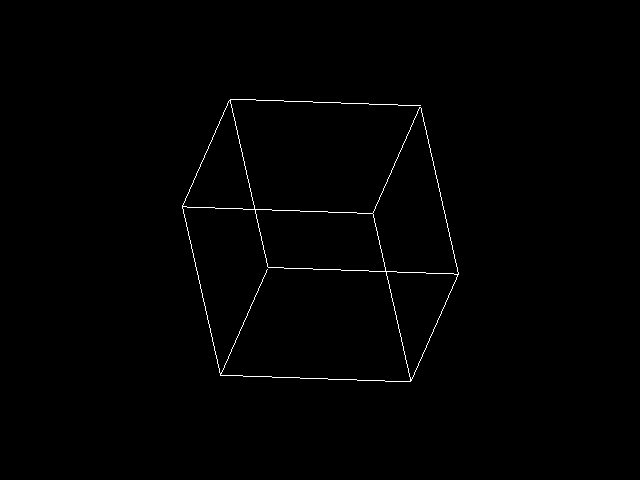
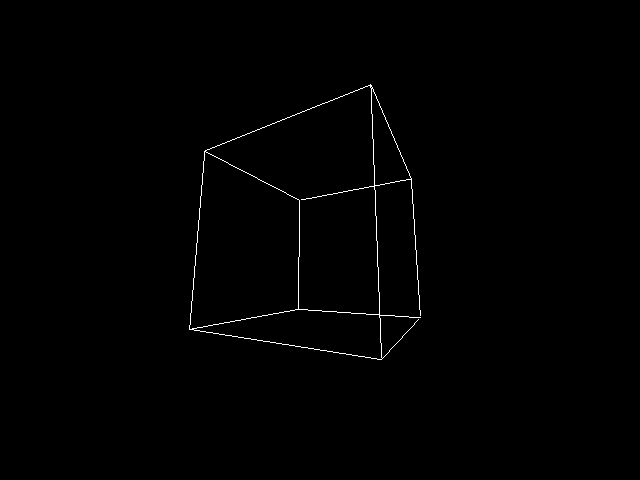
add perspective projection and fix some glaring matrix/vector bugs. Still not sure I've got the right kind of semantics for the homogeneous w-coordinate's behavior with operator overloading etc.

diff --git a/msvc/test/main.cpp b/msvc/test/main.cpp
@@ -28,7 +28,7 @@ void rotateCube(sf::RenderWindow &window)
 	Quat rot = Quat::from_axis_angle(Vec(0, 0, 1), 0.005);
 
 	Camera cam;
-	cam.position = Vec(2, 0, 0.5);
+	cam.position = Vec(3, 0, 0.5);
 
 	sf::Texture screen;
 	screen.create(640, 480);
@@ -36,46 +36,63 @@ void rotateCube(sf::RenderWindow &window)
 	sf::Sprite sprite;
 	sprite.setTexture(screen);
 
-	while (true)
-	{
-		im.initialize();
-		cam.position = rot * cam.position;
-		cam.direction = -cam.position.normalized();
-		cam.up = Vec(0, 0, 1).normalTo(cam.direction).normalized();
+	int counter = 0;
 
-		Mat projection = parallelProjection(cam, 100);
-
-		for (int i = 0; i < 12; ++i)
-		{
-			Vec screenStart = projection * cubeLines[i].start + Vec(320, 240, 0);
-			Vec screenEnd = projection * cubeLines[i].end + Vec(320, 240, 0);
-			drawLine2D(screenStart, screenEnd, im, ColorRGBA(255.0, 255.0, 255.0));
-		}
-
-		screen.update((sf::Uint8 const *)im.raw(), 640, 480, 0, 0);
-
-		window.clear();
-        window.draw(sprite);
-        window.display();
-	}
-}
-
-int main()
-{
-    sf::RenderWindow window(sf::VideoMode(640, 480), "SFML works!");
-
-	// screen.copyToImage().saveToFile("../../molasses.png");
-
-    while (window.isOpen())
+	while (window.isOpen())
     {
-		rotateCube(window);
         sf::Event event;
         while (window.pollEvent(event))
         {
             if (event.type == sf::Event::Closed)
                 window.close();
         }
-    }
+
+		im.initialize();
+		cam.position = rot * cam.position;
+		cam.direction = -cam.position.normalized();
+		cam.up = Vec(0, 0, 1).normalTo(cam.direction).normalized();
+
+		double fov = radians(90);
+		Mat projection = perspectiveProjection(cam, fov, 1, 100);
+		Mat toScreen = Mat::identity();
+		toScreen(0, 0) = 240;
+		toScreen(1, 1) = 240;
+		Mat shift = Mat::translation(Vec(320, 240, 0));
+		toScreen = shift * toScreen;
+
+		for (int i = 0; i < 12; ++i)
+		{
+			Vec pstart = projection * cubeLines[i].start;
+			pstart = pstart / pstart.w;
+			Vec screenStart = toScreen * pstart;
+
+			Vec pend = projection * cubeLines[i].end;
+			pend = pend / pend.w;
+			Vec screenEnd = toScreen * pend;
+
+			drawLine2D(screenStart, screenEnd, im, ColorRGBA(255.0, 255.0, 255.0));
+		}
+
+		screen.update((sf::Uint8 const *)im.raw(), 640, 480, 0, 0);
+
+		if (counter == 100)
+		{
+			screen.copyToImage().saveToFile("../../molasses.png");
+		}
+
+		window.clear();
+        window.draw(sprite);
+        window.display();
+
+		++counter;
+	}
+}
+
+int main()
+{
+    sf::RenderWindow window(sf::VideoMode(640, 480), "Molasses works!");
+
+	rotateCube(window);
 
     return 0;
 }

diff --git a/mat.h b/mat.h
@@ -9,6 +9,11 @@ class Mat
 public:
 	Mat()
 	{
+		for (int row = 0; row < 4; ++row)
+		for (int col = 0; col < 4; ++col)
+		{
+			arr[row][col] = 0;
+		}
 	}
 
 	Mat(float m00, float m01, float m02, float m03,
@@ -44,7 +49,7 @@ public:
 
 	void setCol(int col, Vec const &v)
 	{
-		for (int row = 0; row < 4; ++row)
+		for (int row = 0; row < 3; ++row)
 		{
 			arr[row][col] = v[row];
 		}
@@ -52,7 +57,7 @@ public:
 
 	void setRow(int row, Vec const &v)
 	{
-		for (int col = 0; col < 4; ++col)
+		for (int col = 0; col < 3; ++col)
 		{
 			arr[row][col] = v[col];
 		}
@@ -74,34 +79,30 @@ public:
 	static Mat translation(Vec const &v)
 	{
 		Mat m = Mat::identity();
-		
-		for (int row = 0; row < 3; ++row)
-		{
-			m(row, 3) = v[row];
-		}
+		m.setCol(3, v);
+		m.arr[3][3] = 1.0;
 
 		return m;
 	}
 
-	static Mat fromColumns(Vec const &x, Vec const &y, Vec const &z, Vec const &translation = Vec())
+	static Mat fromColumnsAffine(Vec const &x, Vec const &y, Vec const &z, Vec const &translation = Vec())
 	{
 		Mat m;
 		m.setCol(0, x);
 		m.setCol(1, y);
 		m.setCol(2, z);
 		m.setCol(3, translation);
-		m.arr[3][3] = 1.0;
+		m.arr[3][3] = 1;
 
 		return m;
 	}
 
-	static Mat fromRows(Vec const &x, Vec const &y, Vec const &z, Vec const &translation = Vec())
+	static Mat fromRows33(Vec const &x, Vec const &y, Vec const &z)
 	{
 		Mat m;
 		m.setRow(0, x);
 		m.setRow(1, y);
 		m.setRow(2, z);
-		m.setRow(3, translation);
 		m.arr[3][3] = 1.0;
 
 		return m;
@@ -125,11 +126,17 @@ Mat operator *(float s, Mat const &b)
 
 Vec operator *(Mat const &m, Vec const &v)
 {
-	return Vec(
-		dot(m.row(0), v),
-		dot(m.row(1), v),
-		dot(m.row(2), v),
-		dot(m.row(3), v));
+	float result[] = {0, 0, 0, 0};
+
+	for (int row = 0; row < 4; ++row)
+	{
+		for (int i = 0; i < 4; ++i)
+		{
+			result[row] += m(row, i) * v[i];
+		}
+	}
+
+	return Vec(result);
 }
 
 Mat operator *(Mat const &a, Mat const &b)
@@ -137,9 +144,16 @@ Mat operator *(Mat const &a, Mat const &b)
 	Mat m;
 
 	for (int row = 0; row < 4; ++row)
-	for (int col = 0; col < 4; ++col)
 	{
-		m(row, col) = dot(a.row(row), b.col(col));
+		for (int col = 0; col < 4; ++col)
+		{
+			m(row, col) = 0;
+
+			for (int i = 0; i < 4; ++i)
+			{
+				m(row, col) += a(row, i) * b(i, col);
+			}
+		}
 	}
 
 	return m;

diff --git a/projection.h b/projection.h
@@ -4,11 +4,38 @@
 #include "image.h"
 
 
-Mat parallelProjection(Camera const &camera, double worldToPixels)
+Mat parallelProjection(Camera const &camera)
 {
 	Mat toOrigin = Mat::translation(-camera.position);
-	Mat view = Mat::fromRows(camera.x(), camera.up, camera.direction);
-	Mat projection = worldToPixels * Mat::identity();
-	Mat vp = projection * view * toOrigin;
+	Mat view = Mat::fromRows33(camera.x(), camera.up, camera.direction);
+	Mat vp = view * toOrigin;
 	return vp;
+}
+
+// fov in radians
+// projects the view frustum into a box with z in [0, 1], xy in [-1, 1]
+Mat perspectiveProjection(Camera const &camera, double fov, double near, double far)
+{
+	Mat toOrigin = Mat::translation(-camera.position);
+	Mat view = Mat::fromRows33(camera.x(), camera.up, camera.direction);
+	float xy = 1 / tan(fov / 2);
+
+//#define THEIRS
+
+#ifdef THEIRS
+	float nearmap = - far / (far - near);
+	float farmap  = - (far * near) / (far - near);
+	Mat projection = Mat(xy, 0,  0,       0,
+		                 0,  xy, 0,       0,
+						 0,  0,  nearmap, farmap,
+						 0,  0,  -1,       0);
+
+#else
+	Mat projection = Mat(xy, 0,  0,                0,
+		                 0,  xy, 0,                0,
+						 0,  0,  1 / (far - near), near / (far - near),
+						 0,  0,  1,                0);
+#endif
+
+	return projection * (view * toOrigin);
 }

diff --git a/line2d.h b/line2d.h
@@ -28,7 +28,10 @@ void drawLine2D(Vec const &start, Vec const &end, Image &image, ColorRGBA color)
 	{
 		int xr = x + 0.5;
 		int yr = y + 0.5;
-		image(xr, yr) = color;
+		if ((xr >= 0) && (xr < image.columns()) && (yr >= 0) && (yr < image.rows()))
+		{
+			image(xr, yr) = color;
+		}
 		x += xstep;
 		y += ystep;
 	}

diff --git a/util.h b/util.h
@@ -45,3 +45,15 @@ T clampSubtract(T a, T b)
 
 	return (T)subtract;
 }
+
+static const double PI = 3.14159265358979323846264338327950288;
+
+double radians(double degrees)
+{
+	return degrees * (PI / 180.0);
+}
+
+double degrees(double radians)
+{
+	return radians * (180.0 / PI);
+}

diff --git a/quat.h b/quat.h
@@ -88,7 +88,7 @@ Quat lerp(const Quat &q1, const Quat &q2, float t)
 	return ((1 - t) * q1 + t * q2).normalized();	
 }
 
-static Quat slerp(const Quat &q1, const Quat &q2, float t) 
+Quat slerp(const Quat &q1, const Quat &q2, float t) 
 {
 	Quat q3;
 	float dp = dot(q1, q2);

diff --git a/vec.h b/vec.h
@@ -106,6 +106,6 @@ Vec cross(Vec const &a, Vec const &b)
 {
 	return Vec(
 		a.y * b.z - a.z * b.y,
-		a.x * b.z - a.z * b.x,
+		a.z * b.x - a.x * b.z,
 		a.x * b.y - a.y * b.x);
 }
